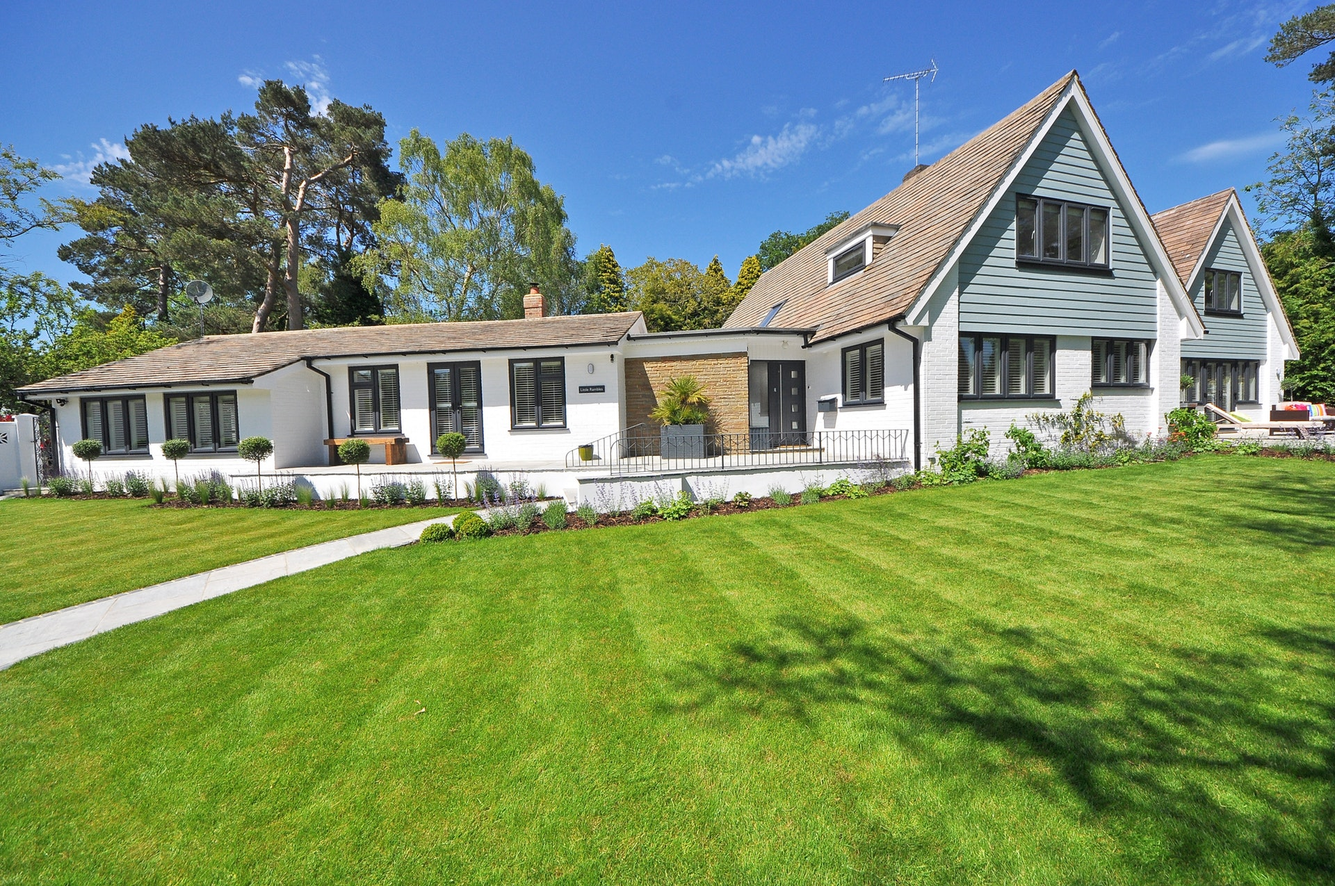
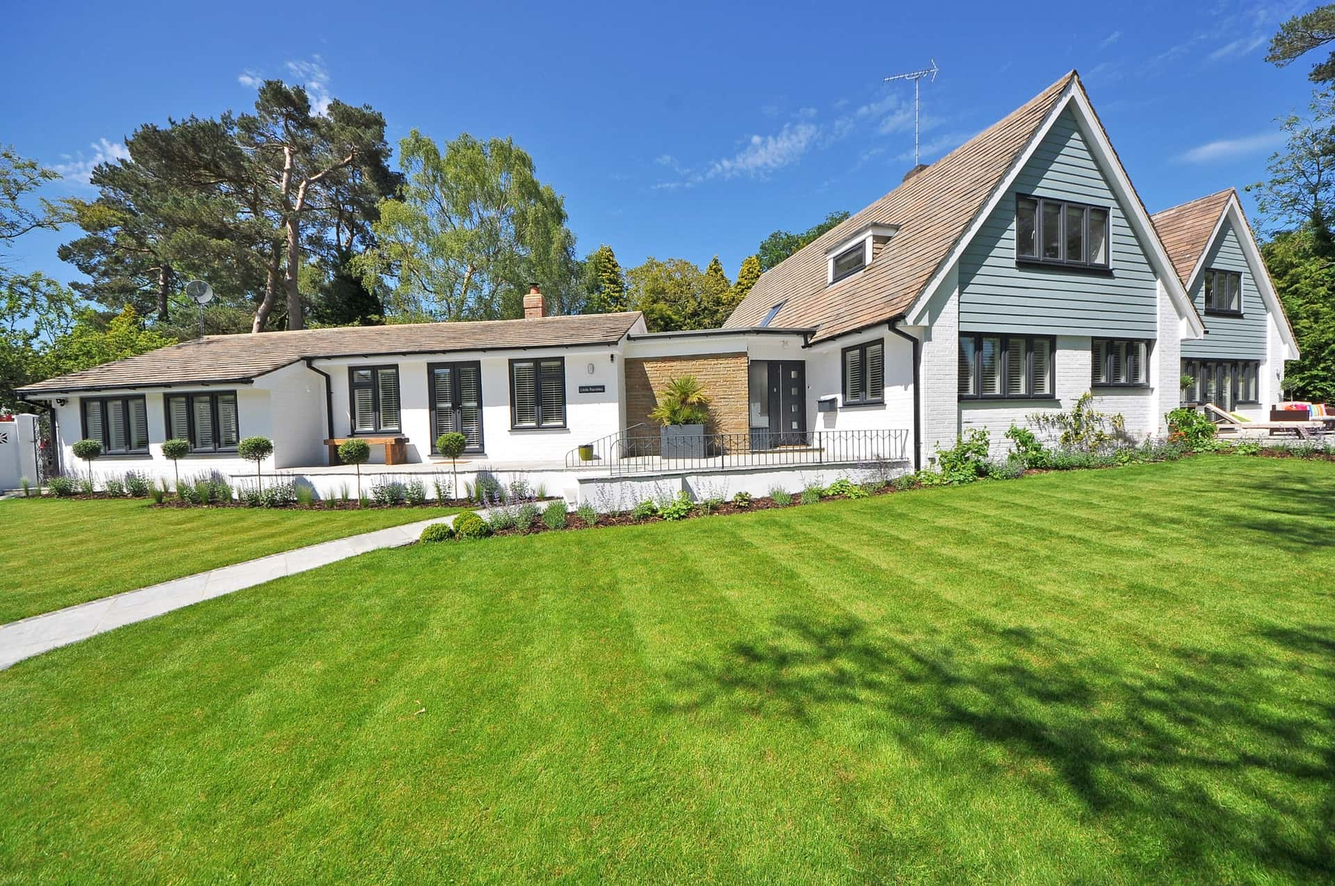
optimsied images

diff --git a/starthere.html b/starthere.html
@@ -37,7 +37,9 @@
 						<li class="nav__item">
 							<a href="/index.html">Home</a>
 						</li>
-						<li class="nav__item"><a href="#">Houses</a></li>
+						<li class="nav__item">
+							<a href="/starthere.html">Start here</a>
+						</li>
 						<li class="nav__item">
 							<a href="/builme.html">About us</a>
 						</li>
@@ -83,24 +85,39 @@
 					and start working together.
 				</p>
 				<form class="starthere-form">
-					<label for="name">Full name</label>
-					<input type="text" id="name" />
+					<label for="name" class="starthere-form__label"
+						>Full name</label
+					>
+					<input
+						type="text"
+						id="name"
+						class="starthere-form__input"
+					/>
 
-					<label for="email">Email address</label>
-					<input type="email" id="email" />
+					<label for="email" class="starthere-form__label"
+						>Email address</label
+					>
+					<input
+						type="email"
+						id="email"
+						class="starthere-form__input"
+					/>
 
-					<label for="country">Country</label>
-					<input type="text" id="country" />
+					<label for="country" class="starthere-form__label"
+						>Country</label
+					>
+					<input
+						type="text"
+						id="country"
+						class="starthere-form__input"
+					/>
 
-					<label for="country">Country</label>
-					<input type="text" id="country" />
-
-					<label for="country">Country</label>
-					<input type="text" id="country" />
-
-					<label for="textarea">Tell us something</label>
+					<label for="textarea" class="starthere-form__label"
+						>Tell us something</label
+					>
 					<textarea
 						id="textarea"
+						class="starthere-form__text-area"
 						placeholder="What's your dream house? Tell us something about you :)"
 					></textarea>
 

diff --git a/css/styles.css b/css/styles.css
@@ -416,7 +416,7 @@ body {
     left: 0;
     width: 100%;
     height: 100%;
-    background-image: linear-gradient(to bottom, rgba(44, 44, 43, 0.2), rgba(75, 75, 75, 0.4)), url("../../assets/imgs/hero.jpg");
+    background-image: linear-gradient(to bottom, rgba(44, 44, 43, 0.2), rgba(75, 75, 75, 0.4)), url("../../assets/optimised-imgs/Optimized-hero.jpg");
     background-size: cover;
     background-repeat: no-repeat;
     background-position: center;
@@ -822,7 +822,7 @@ body {
     position: absolute;
     top: 0;
     left: 0;
-    background-image: linear-gradient(to bottom, rgba(44, 44, 43, 0.2), rgba(75, 75, 75, 0.4)), url("../../assets/imgs/house-of-the-week.jpg");
+    background-image: linear-gradient(to bottom, rgba(44, 44, 43, 0.2), rgba(75, 75, 75, 0.4)), url("../../assets/optimised-imgs/Optimized-house-of-the-week.jpg");
     background-position: center;
     background-repeat: no-repeat;
     background-size: cover;
@@ -929,3 +929,13 @@ body {
           color: #c9a254; }
       .section-info .info > .row > .col-1-of-3 > ul > li:not(:last-child) {
         margin-bottom: 3rem; }
+
+.starthere-form {
+  font-display: 1.6rem; }
+  .starthere-form__input {
+    max-width: 400px;
+    height: 3rem;
+    border: 1px #eee solid;
+    border-radius: 6px; }
+  .starthere-form__label {
+    color: #333; }

diff --git a/builme.html b/builme.html
@@ -37,7 +37,9 @@
 						<li class="nav__item">
 							<a href="/index.html">Home</a>
 						</li>
-						<li class="nav__item"><a href="#">Houses</a></li>
+						<li class="nav__item">
+							<a href="/starthere.html">Start here</a>
+						</li>
 						<li class="nav__item">
 							<a href="/builme.html">About us</a>
 						</li>

diff --git a/index.html b/index.html
@@ -45,7 +45,9 @@
 						<li class="nav__item">
 							<a href="/index.html">Home</a>
 						</li>
-						<li class="nav__item"><a href="#">Houses</a></li>
+						<li class="nav__item">
+							<a href="/starthere.html">Start here</a>
+						</li>
 						<li class="nav__item">
 							<a href="/builme.html">About us</a>
 						</li>

diff --git a/sass/pages/_home.scss b/sass/pages/_home.scss
@@ -101,7 +101,7 @@
 				rgba(44, 44, 43, 0.2),
 				rgba(75, 75, 75, 0.4)
 			),
-			url("../../assets/imgs/house-of-the-week.jpg");
+			url("../../assets/optimised-imgs/Optimized-house-of-the-week.jpg");
 		background-position: center;
 		background-repeat: no-repeat;
 		background-size: cover;

diff --git a/sass/layout/_header.scss b/sass/layout/_header.scss
@@ -39,7 +39,7 @@
 				rgba(44, 44, 43, 0.2),
 				rgba(75, 75, 75, 0.4)
 			),
-			url("../../assets/imgs/hero.jpg");
+			url("../../assets/optimised-imgs/Optimized-hero.jpg");
 		background-size: cover;
 		background-repeat: no-repeat;
 		background-position: center;

diff --git a/sass/pages/_starthere.scss b/sass/pages/_starthere.scss
@@ -1,0 +1,16 @@
+.starthere-form {
+	font-display: $default-font-size;
+	&__input {
+		max-width: 400px;
+		height: 3rem;
+		border: 1px #eee solid;
+		border-radius: 6px;
+	}
+	&__label {
+		color: #333;
+	}
+	&__submit-btn {
+	}
+	&__text-are {
+	}
+}
